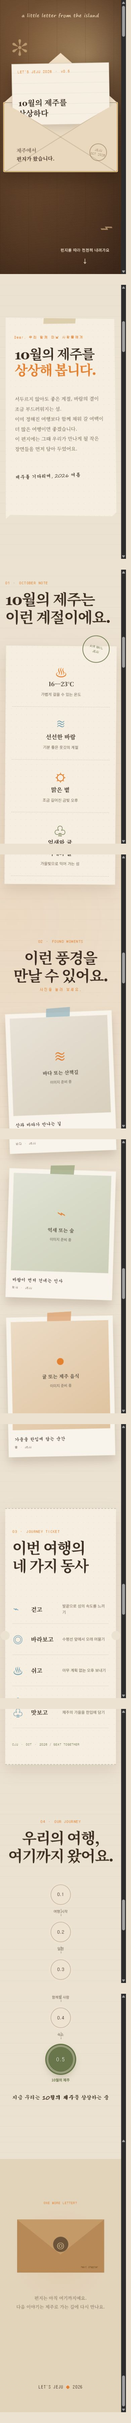
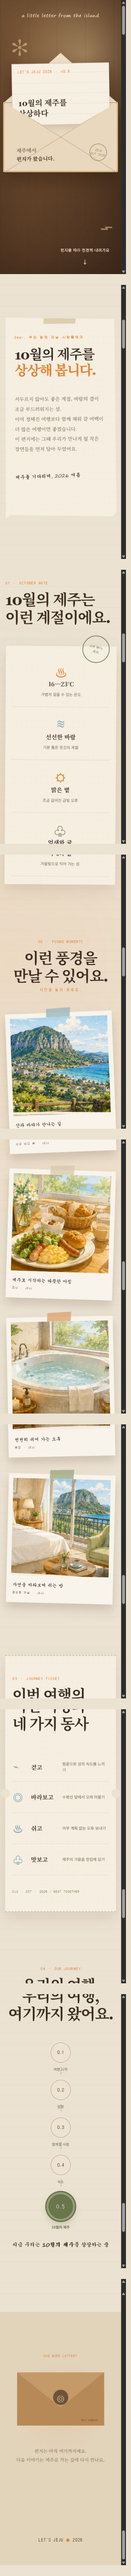
fix: use cropped resort moments in v0.5

diff --git a/src/versions/v0.5/index.tsx b/src/versions/v0.5/index.tsx
@@ -1,14 +1,16 @@
 import { createRoot } from "react-dom/client";
 import { useEffect, useRef, useState, type ReactNode } from "react";
 import { AnimatePresence, motion } from "framer-motion";
+import { sitePath } from "../../core/paths";
 import "./style.css";
 
 const easePaper = [0.22, 1, 0.36, 1] as const;
 
 const moments = [
-  { category: "바다 또는 산책길", caption: "산과 바다가 만나는 길", tape: "blue", rotate: -2.2, symbol: "≋" },
-  { category: "억새 또는 숲", caption: "바람이 먼저 건네는 인사", tape: "olive", rotate: 1.8, symbol: "⌁" },
-  { category: "귤 또는 제주 음식", caption: "가을을 한입에 담는 순간", tape: "orange", rotate: -1.2, symbol: "●" }
+  { category: "산과 바다 뷰", caption: "산과 바다가 만나는 길", tape: "blue", rotate: -2.2, image: "mountain-sea.webp", alt: "산방산과 제주 바다가 한눈에 펼쳐지는 풍경" },
+  { category: "조식", caption: "제주로 시작하는 따뜻한 아침", tape: "beige", rotate: 1.8, image: "breakfast.webp", alt: "창가 테이블에 차려진 빵과 샐러드, 달걀과 음료 조식" },
+  { category: "욕조", caption: "천천히 쉬어 가는 오후", tape: "orange", rotate: -1.2, image: "whirlpool.webp", alt: "초록 나무가 보이는 창가의 넓은 월풀 욕조" },
+  { category: "편안한 객실", caption: "자연을 바라보며 쉬는 방", tape: "olive", rotate: 1.4, image: "room.webp", alt: "산과 바다가 보이는 창을 마주한 밝고 편안한 객실" }
 ] as const;
 
 const progress = [
@@ -194,7 +196,7 @@ function Gallery() {
               type="button"
               className="v05-polaroid__photo"
               aria-pressed={selectedMoment === index}
-              aria-label={`${moment.category} 이미지 슬롯: ${moment.caption}`}
+              aria-label={`${moment.category} 사진: ${moment.caption}`}
               onClick={() => toggleMoment(index)}
               onKeyDown={(event) => {
                 if (event.key === "Enter" || event.key === " ") {
@@ -204,11 +206,9 @@ function Gallery() {
               }}
               whileTap={{ scale: 0.975 }}
             >
-              <span className="v05-placeholder__symbol" aria-hidden="true">{moment.symbol}</span>
-              <strong>{moment.category}</strong>
-              <small>이미지 준비 중</small>
+              <img src={sitePath(`images/v0.5/${moment.image}`)} alt={moment.alt} />
             </motion.button>
-            <figcaption>{moment.caption}<small>{["바다", "억새", "귤"][index]} · jeju</small></figcaption>
+            <figcaption>{moment.caption}<small>{moment.category} · jeju</small></figcaption>
           </motion.figure>
         ))}
       </div>

diff --git a/src/versions/v0.5/style.css b/src/versions/v0.5/style.css
@@ -375,7 +375,7 @@
 
 .v05-polaroids {
   display: grid;
-  grid-template-columns: repeat(3, minmax(0, 1fr));
+  grid-template-columns: repeat(4, minmax(0, 1fr));
   gap: 28px;
   align-items: start;
 }
@@ -393,25 +393,17 @@
 
 .v05-polaroid:nth-child(even) { margin-top: 60px; }
 .v05-polaroid__photo {
-  display: flex;
+  display: block;
   width: 100%;
   height: 270px;
-  flex-direction: column;
-  align-items: center;
-  justify-content: center;
-  gap: 10px;
   overflow: hidden;
   border: 0;
-  color: #4f4639;
   cursor: pointer;
-  background:
-    linear-gradient(145deg, rgba(255,255,255,.4), transparent),
-    #d9cfbd;
-  transition: box-shadow .25s ease, background-color .25s ease;
+  background: transparent;
+  transition: box-shadow .25s ease;
 }
 
-.v05-polaroid:nth-child(2) .v05-polaroid__photo { background-color: #cdd0b9; }
-.v05-polaroid:nth-child(3) .v05-polaroid__photo { background-color: #dfc39f; }
+.v05-polaroid__photo img { width: 100%; height: 100%; object-fit: cover; }
 .v05-polaroid__photo:hover,
 .v05-polaroid__photo:focus-visible,
 .v05-polaroid.is-selected .v05-polaroid__photo {
@@ -419,9 +411,6 @@
   outline-offset: -5px;
   box-shadow: inset 0 0 0 7px rgba(255, 250, 239, .55);
 }
-.v05-placeholder__symbol { color: var(--v05-orange); font: 48px Georgia, serif; }
-.v05-polaroid__photo strong { font: 700 15px "Noto Serif KR", serif; }
-.v05-polaroid__photo small { color: #6f6558; font-size: 11px; }
 .v05-polaroid figcaption {
   padding: 19px 5px 0;
   font-family: "V05 Hand", cursive;
